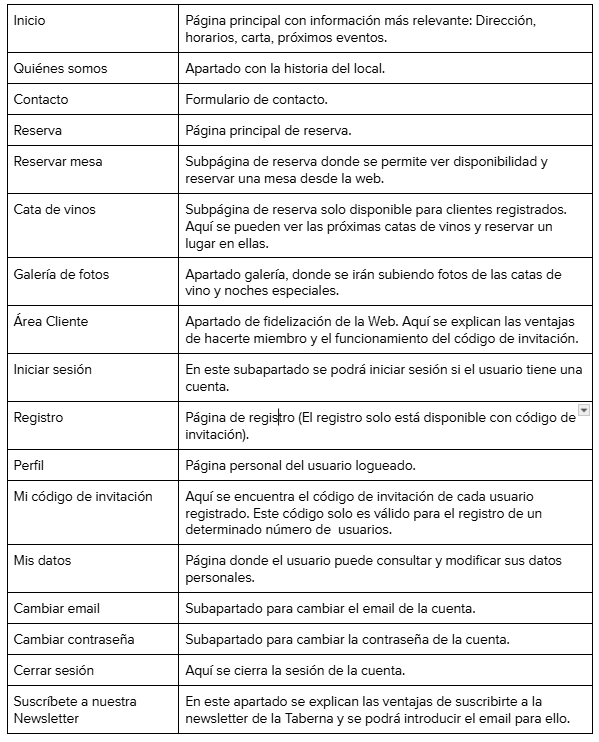
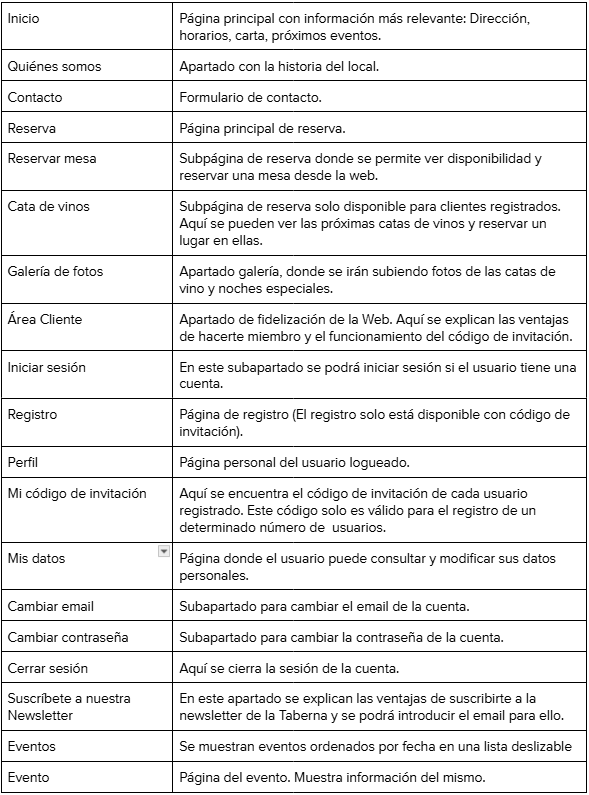
Bocetos PagPrincipal, Eventos, Evento y Reserva + Fix Sitemap y Labelling + Fix Readme principal

Changed region(s): [[0.0, 0.0, 1.0, 1.0]]

diff --git a/README.md b/README.md
@@ -189,11 +189,35 @@ Diagrama tipo Sitemap de la página y tabla de Labelling asociada al mismo:
 
 ### 2.d Wireframes
 
-![Método UX](img/Wireframes.png)
+Para la elaboración de los bocetos hemos utilizado Figma, lo que nos permite simular la distribución y organización del layout para una página web en un ordenador. Los wireframes realizados son:
+
+#### Página Inicio
+
+Esta sería la página principal que se mostraría al entrar a la web.
+
+![PaginaInicio](./P2/PaginaInicio.png)
+
+#### Página Eventos
+
+Esta sería la página de eventos, la cual muestra todos los eventos ordenados por fecha en una lista desplazable.
+
+![PaginaEventos](./P2/Eventos.png)
+
+#### Página Evento
+
+Se muestra la página de un evento concreto, en la cual se ofrece más informacióna acerca del mismo.
+
+![PaginaEvento](./P2/Evento.png)
+
+#### Página de Reserva
+
+Se muestra a continuación el formulario que el usuario debería rellenar para reservar una mesa o un evento.  
+En la parte derecha, se mostraría el horario del local o del evento, y una recomendación de a que hora/día reservar
+en función de las necesidades del local y la disponibilidad.
+
+![FormularioReserva](./P2/FormularioReservarMesaEvento.png)
+
 -----
-
->>> Plantear el diseño del layout para Web/movil (organización y simulación). Describa la herramienta usada
-
 <br>
 
 ## Paso 3. Mi UX-Case Study (diseño)

diff --git a/P2/bocetos.md b/P2/bocetos.md
@@ -1,0 +1,30 @@
+# Bocetos
+
+A continuación se presentan algunos bocetos de las páginas más importantes de la web.
+
+## Página Inicio
+
+Esta sería la página principal que se mostraría al entrar a la web.
+
+![PaginaInicio](./PaginaInicio.png)
+
+## Página Eventos
+
+Esta sería la página de eventos, la cual muestra todos los eventos ordenados por fecha en una lista desplazable.
+
+![PaginaEventos](./Eventos.png)
+
+## Página Evento
+
+Se muestra la página de un evento concreto, en la cual se ofrece más informacióna acerca del mismo.
+
+![PaginaEvento](./Evento.png)
+
+
+## Página de Reserva
+
+Se muestra a continuación el formulario que el usuario debería rellenar para reservar una mesa o un evento.  
+En la parte derecha, se mostraría el horario del local o del evento, y una recomendación de a que hora/día reservar
+en función de las necesidades del local y la disponibilidad.
+
+![FormularioReserva](./FormularioReservarMesaEvento.png)

diff --git a/P2/README.md b/P2/README.md
@@ -8,30 +8,7 @@
 | User Flow Task | [Enlace](./user_flow_task.md)|
 | SiteMap | [Enlace](./sitemap.png) |
 | Labelling | [Enlace](./labelling.png) |
-
-
-### Ideación 
-* Malla receptora de información 
-
-
-### PROPUESTA DE VALOR
-* ScopeCanvas
-
-
-### TASK ANALYSIS
-
-* User Task Matrix 
-* User/Task flow
-
-
-### ARQUITECTURA DE INFORMACIÓN
-
-* Sitemap 
-* Labelling 
-
-
-### Prototipo Lo-FI Wireframe 
-
+| Bocetos Lo-Fi | [Enlace](./bocetos.md) |
 
 ### Conclusiones  
 (incluye valoración de esta etapa)
